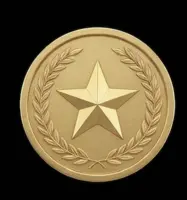
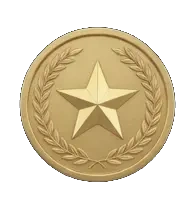
Remove black backgrounds from trophy images, add float animation
Processed all 12 trophy/medal images to remove black backgrounds
with edge feathering. Trophies now float cleanly over any backdrop.
Added gentle floating animation + gold glow on champion card trophy.

diff --git a/client/src/pages/LeagueDetailPage.jsx b/client/src/pages/LeagueDetailPage.jsx
@@ -786,7 +786,7 @@ export default function LeagueDetailPage() {
         <div className="mb-6 rounded-xl border-2 border-yellow-500 py-10 px-6 relative overflow-hidden">
           <div className="absolute inset-0 bg-gradient-to-b from-yellow-500/10 to-transparent pointer-events-none" />
           <div className="relative flex items-center justify-center gap-4">
-            <img src={trophySrc} alt="Trophy" className="w-20 h-24 object-contain shrink-0" />
+            <img src={trophySrc} alt="Trophy" className="w-20 h-24 object-contain shrink-0 animate-trophy-float drop-shadow-[0_0_12px_rgba(234,179,8,0.3)]" />
             <button onClick={() => setSelectedUserId(league.champion.user.id)} className="cursor-pointer shrink-0">
               {league.champion.user.avatar_url ? (
                 <img

diff --git a/client/src/index.css b/client/src/index.css
@@ -94,6 +94,14 @@ input[type="date"]::-webkit-calendar-picker-indicator {
   }
 }
 
+@keyframes trophy-float {
+  0%, 100% { transform: translateY(0) rotate(-2deg); }
+  50% { transform: translateY(-6px) rotate(2deg); }
+}
+.animate-trophy-float {
+  animation: trophy-float 3s ease-in-out infinite;
+}
+
 @keyframes feed-card-victory {
   from { opacity: 0; transform: scale(0.97); }
   to { opacity: 1; transform: scale(1); }
